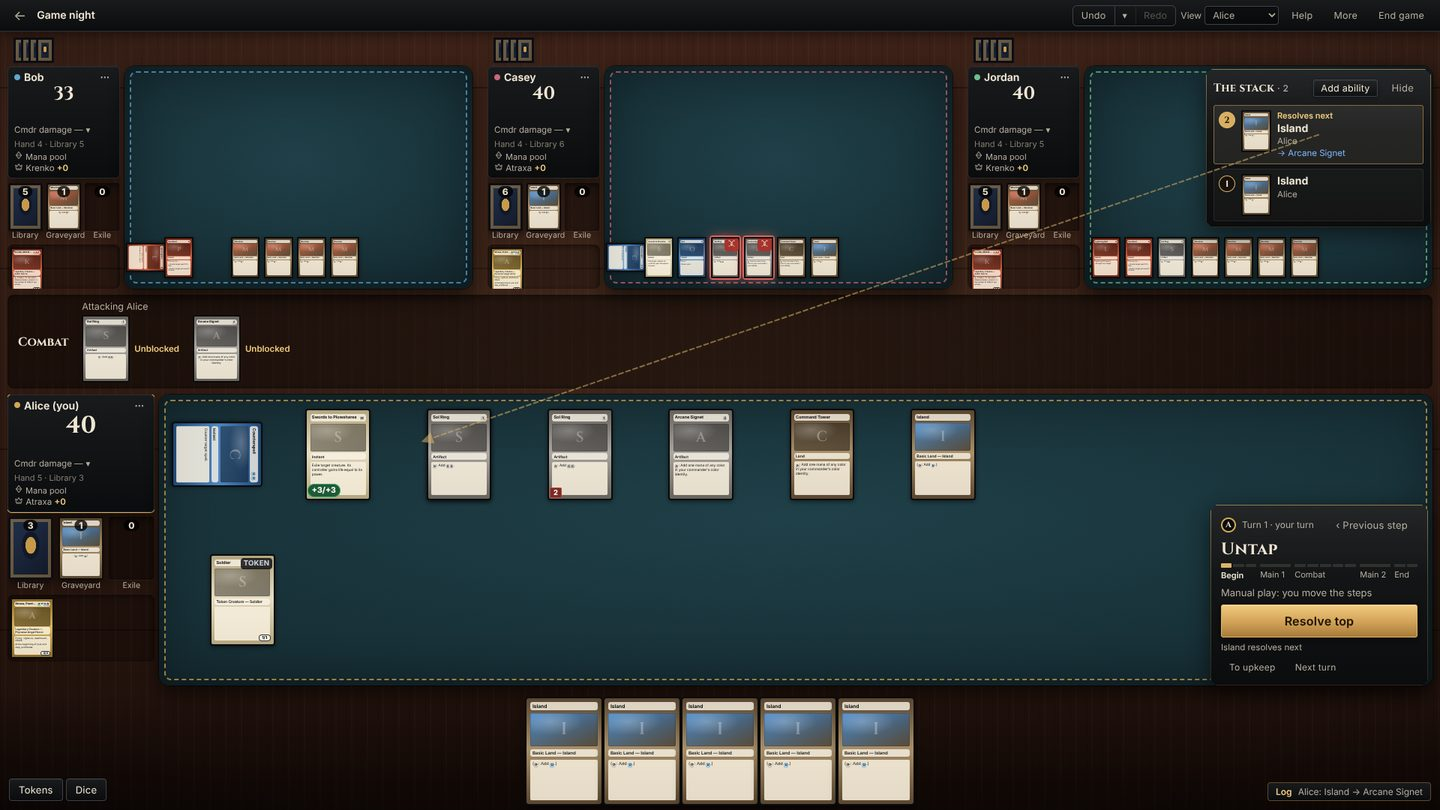
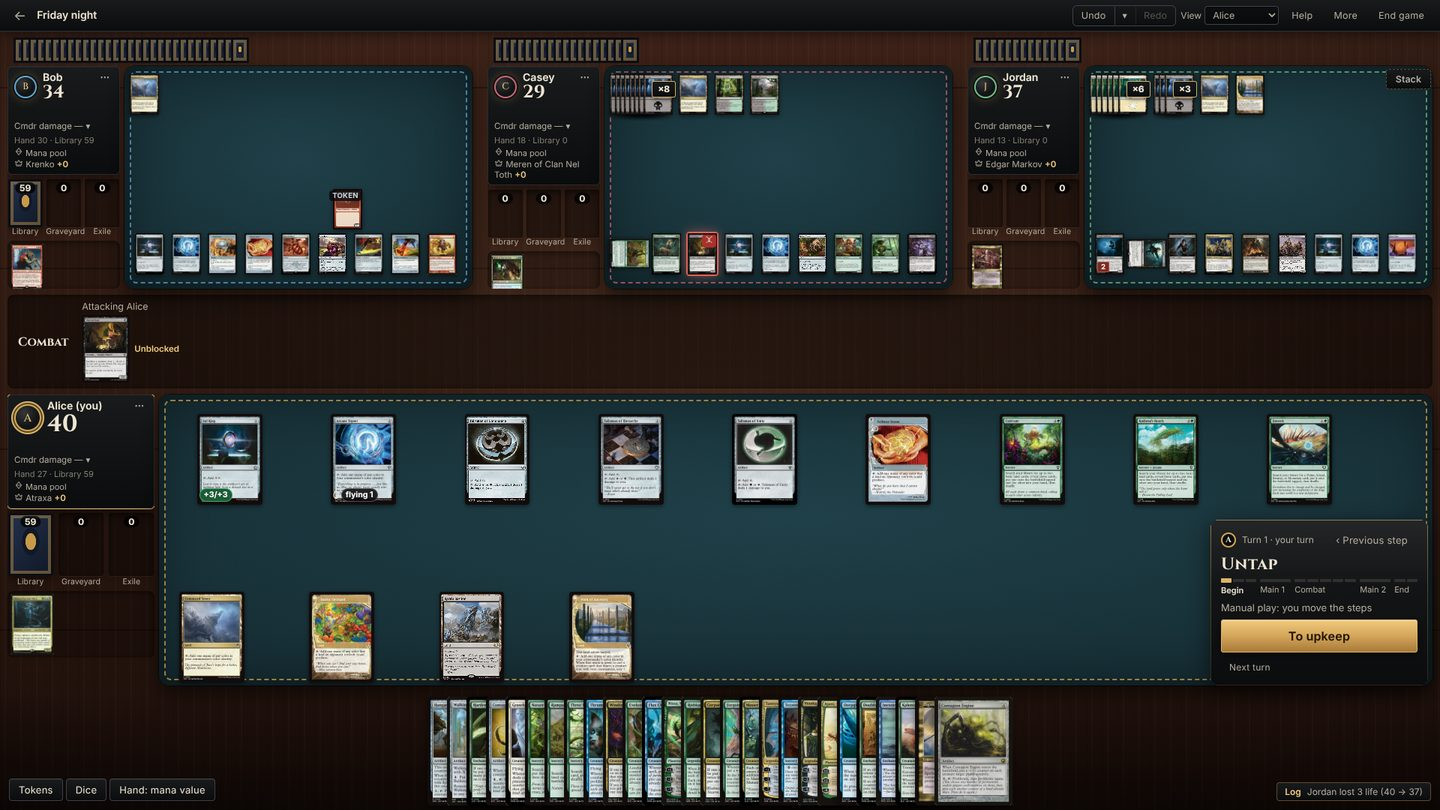
Study: second-pass results, key audit and real-art comparison; README shows real card art
- docs/UI_REFERENCE_STUDY.md:
  - §21: status of the six follow-ups.
  - §22: key audit against TTS and Arena (Space, P, Enter, Tab, F, G, S) with the Arena preset.
  - §23: real-art comparison with the Lenc and Oops galleries, plus perf numbers.
- The README's 3D and 2D screenshots now show a crowded four-seat board with real card art and tidied land piles.
  The art is Scryfall's, credited in the README.

Claude-Session: https://claude.ai/code/session_01BeZa72WQeX2mRF7SKBhTnK

diff --git a/docs/UI_REFERENCE_STUDY.md b/docs/UI_REFERENCE_STUDY.md
@@ -938,15 +938,65 @@ Each was checked in the running app, 2D and 3D.
   - 23 px targets;
   - one 4.15:1 contrast.
 
-## 21. Next, in order
-1. **Arena-style ×N land piles.** Collapse the tidied piles into one card with a count badge and a tapped/untapped
-   split (principle 9). This needs a display-group concept in the 2D and 3D renderers, like token stacks.
-2. **"My order" for the hand.** Dragging inside a sorted hand freezes the shown order and applies the move,
-   instead of refusing it.
-3. **The 2D table.** Move away from the column-of-panels look: plates at each mat's edge, as the 3D table has
-   (critique, open).
-4. **Discoverability.** Print the key next to each action (toolbar, menus), and add a one-line "G to ping" hint the
-   first time a player hovers an opponent's card.
-5. **A key-conflict audit against TTS and Arena muscle memory** (Space, P, Tab, Enter; §18).
-6. **Real-art screenshots** of a crowded four-player board, compared with the Lenc and Oops galleries (§18, pack
-   checklist 3 and 6), with perf numbers from `e2e/table3d-shots.spec.ts` (`SHOT_DIR`).
+## 21. Second pass: the six follow-ups
+
+| Follow-up | Status | What |
+|---|---|---|
+| ×N land piles | **Done (display only)** | Identical noncreature lands overlapping in a row (Tidy builds exactly that; hand-made piles count too) show **×N** on the top card. In 2D it's a brass-edged chip; in 3D it's a plate in the card overlay. Nothing is grouped on the server, so tapping one or dragging one out just changes the count. Built in `game/piles.ts`, which is unit-tested, including against Tidy's own output |
+| "My order" for the hand | **Done** | Dragging inside a sorted hand keeps what you see, with the move applied, as "in my order". It's per game, in session storage, and display only. In "as drawn", a drag still reorders the hand on the server. e2e: `pings-hand.spec.ts` |
+| The 2D table | **First step done** | 2D player panels now open with the 3D seat plaque's identity: a portrait in the seat colour, with a brass ring for the active seat, then the name and life numeral beside it. A wide, short mat no longer pushes near-edge cards off the felt (display clamp in `Battlefield.tsx`). Still to do: plates sitting on each mat's edge, and the opponents' row of panels becoming a strip of plates |
+| Discoverability | **Done** | Each toolbar action shows its key (T, F), following remapping (`keyLabel`), plus a "G ping" chip. A one-time tip appears the first time you hover a public card at a LAN table |
+| Key audit | **Done** | §22, plus an Arena keys preset |
+| Real-art screenshots and perf | **Done** | §23 |
+
+## 22. Key audit against Tabletop Simulator and Arena (done)
+
+Fyodor's defaults are in `frontend/src/game/hotkeys.ts`. The TTS and Arena columns come from K10 and the sources it
+cites. The question for each key: does a key that is harmless in TTS or Arena do something here that can't be undone?
+
+| Key | Fyodor default | MTG Arena | Tabletop Simulator | Verdict |
+|---|---|---|---|---|
+| Space | Tap / untap the hovered or selected card | Pass priority | Reset camera | Safe: a tap is undoable and never passes priority. The **Arena keys** preset (Settings → Keys) makes Space pass priority instead, for players who want the Arena habit |
+| P | Pass priority (manual play: the dial's main button) | — | Camera mode | Kept. A TTS player gets a pass, not a camera change. The dial says what P will do, and in rules mode nothing irreversible happens before the stack resolves |
+| Enter | Play the focused hand card (keyboard access) | Pass until a response | — | Kept. It acts only on the keyboard-focused card, so it never fires by accident from the table |
+| Tab | Moves keyboard focus | — | Pointer / ping | **Not** used for pings (WCAG 2.1.1: Tab must move focus). Fyodor pings with **G** or Alt+click |
+| F | Turn over (double-faced card) | — | Flip | Same as TTS |
+| T | Tap | — | — | — |
+| G | Ping | — | — | Unique, so no conflict |
+| S | Sort hand (cycle) | — | — | Display only, harmless |
+| Ctrl+Z / Ctrl+Shift+Z | Undo / redo | — | Undo | Same habit |
+
+Done in this pass:
+- **Arena keys preset** (`KEY_PRESETS`, Settings → Keys). Space and P pass priority; T alone taps.
+- **Fyodor keys** resets to the defaults.
+- A unit test checks that every preset is free of collisions.
+- The card toolbar prints each action's key, and follows remapping (`keyLabel`).
+
+## 23. Real-art comparison and performance (second pass)
+
+**Setup:**
+- The real Scryfall database: 116,863 printings, downloaded with the in-app updater.
+- Four decks: the two sample decks plus Meren and Edgar Markov. Every card resolved.
+- Art cached for all of them: 203 images.
+- About 20 permanents per seat, plus tokens, counters, damage and an attack.
+- Every seat's lands were tidied.
+- Shots: 1920×1080 and 2560×1440 in 3D (seat and Table cameras), and 1920×1080 and 1366×768 in 2D.
+
+**Against the Lenc and Oops galleries** (TTS wood EDH tables):
+- **Table-to-screen ratio:** the table fills the screen edge to edge in both cameras. Chrome is limited to the thin top bar, the dial (bottom right), the tray (bottom left) and the plaques, so it holds up against the TTS tables, which give more space to props and instruction boards.
+- **Card legibility:** with real art, cards read by art at seat distance as they do in TTS. Names need the hover inspector or the selected-card tag, which matches Arena.
+- **Land piles:** in TTS, players pile lands by hand. Here Tidy plus ×N gives the Arena count without taking away free placement.
+- **Depth:** cards have edges and contact shadows, and the mats are stitched felt. There is no clutter: no dice cannons, toys or instruction cards on the table (the pack's "don't copy").
+- **Gaps against TTS:**
+  - The side seats' cards read sideways (true of a real table too).
+  - At 1366×768 in 2D, a 30-card opponent hand becomes a long strip of card backs. Collapsing it to "30 ▮" past a dozen cards is a follow-up.
+
+**Performance** (`e2e/table3d-shots.spec.ts` with `SHOT_DIR`, headless Chromium with software WebGL, so FPS isn't meaningful; the numbers to watch are draw calls, triangles and CPU per frame):
+
+| Board | Draw calls | Triangles | CPU per frame |
+|---|---|---|---|
+| 68 cards, real art, four seats | 150 | 119k | 2.5 ms |
+| 100 permanents (fixture) | 173 | 86k | 11.2 ms* |
+| 300 permanents (fixture) | 277 | 222k | 5.3 ms |
+
+\* Includes the first frames after loading. The 300-permanent board settles lower. Draw calls grow sublinearly, through instancing and shared materials (the existing `threejs-performance` work). None of this pass's additions draws every frame: the ×N plate is baked into the card's overlay texture, and the toolbar and pings are DOM, placed by the existing frame loop or once on arrival.

diff --git a/README.md b/README.md
@@ -4,7 +4,7 @@ A private, offline-first digital tabletop for one **Magic: The Gathering Command
 player on their own computer, joined over the LAN to one host. Once the card data is downloaded,
 nothing needs the Internet.
 
-![The 3D table mid-game: two objects on the stack, one targeting a permanent, and the turn dial at bottom right](docs/screenshots/table-3d.jpg)
+![The 3D table mid-game with real card art: four seats, tidied land piles with ×N counts, an attack, the turn dial at bottom right](docs/screenshots/table-3d.jpg)
 
 - **A physical table.** A three.js 3D table, or a lighter 2D table, where anything can be moved
   by hand, as in Tabletop Simulator.
@@ -31,7 +31,7 @@ nothing needs the Internet.
 | | |
 |---|---|
 | ![Home screen with the table theme showcase](docs/screenshots/home.jpg) | ![LAN lobby with four seats and a room code](docs/screenshots/lobby.jpg) |
-| ![The 2D table with combat and the stack](docs/screenshots/table-2d.jpg) | ![Opening hand with Commander London mulligans](docs/screenshots/mulligan.jpg) |
+| ![The 2D table with real card art: seat plaques, land piles with ×N counts, the combat strip](docs/screenshots/table-2d.jpg) | ![Opening hand with Commander London mulligans](docs/screenshots/mulligan.jpg) |
 
 See [`docs/IMPLEMENTATION_PLAN.md`](docs/IMPLEMENTATION_PLAN.md) and
 [`docs/ARCHITECTURE.md`](docs/ARCHITECTURE.md) for design details.
